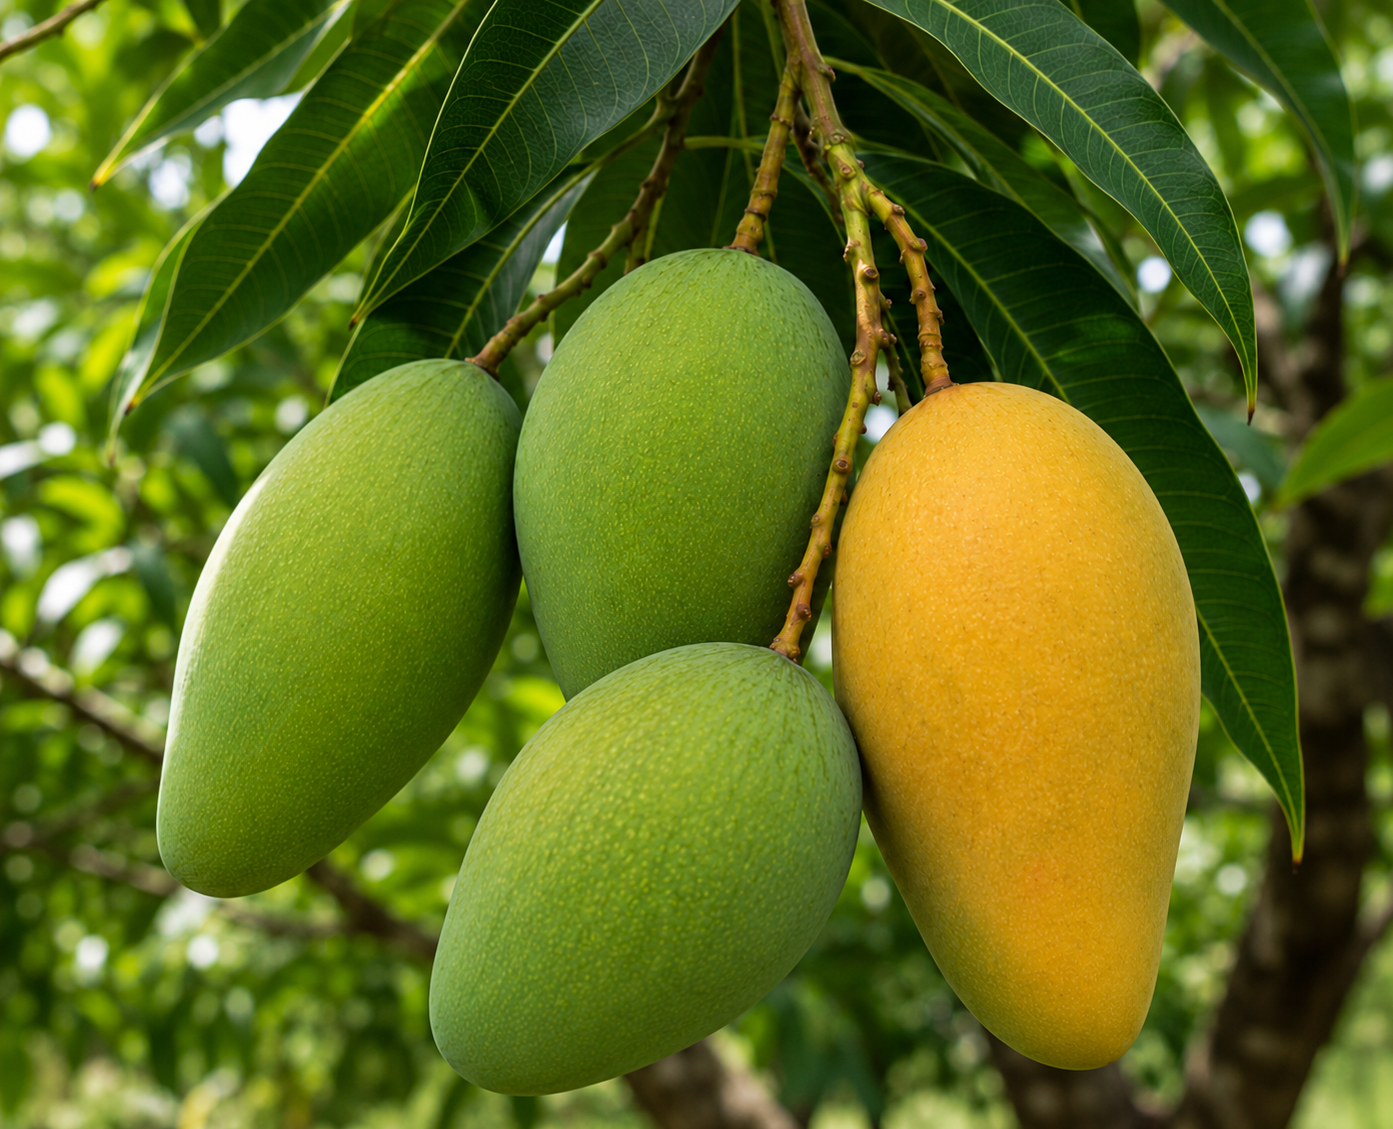
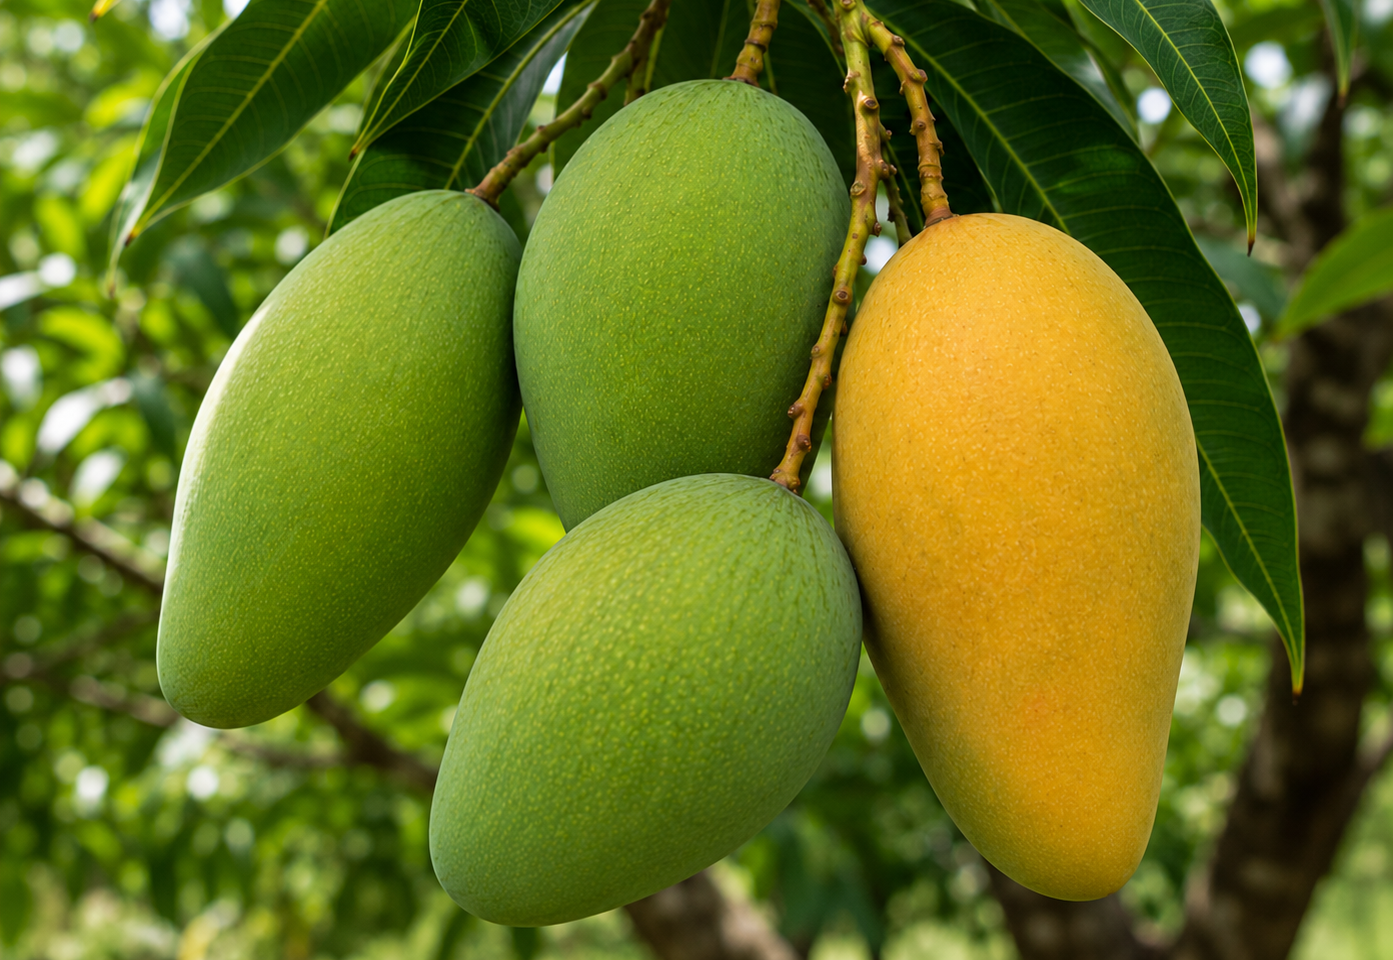
FiX4

diff --git a/components/Crops.tsx b/components/Crops.tsx
@@ -13,10 +13,10 @@ const CROPS = [
     name: "มันสำปะหลัง",
     icon: "/plants/mun.png",
   },
-   {
-     name: "ข้าวโพด",
+  {
+    name: "ข้าวโพด",
     icon: "/plants/kaopod.png",
-   },
+  },
   {
     name: "ยางพารา",
     icon: "/plants/para.png",